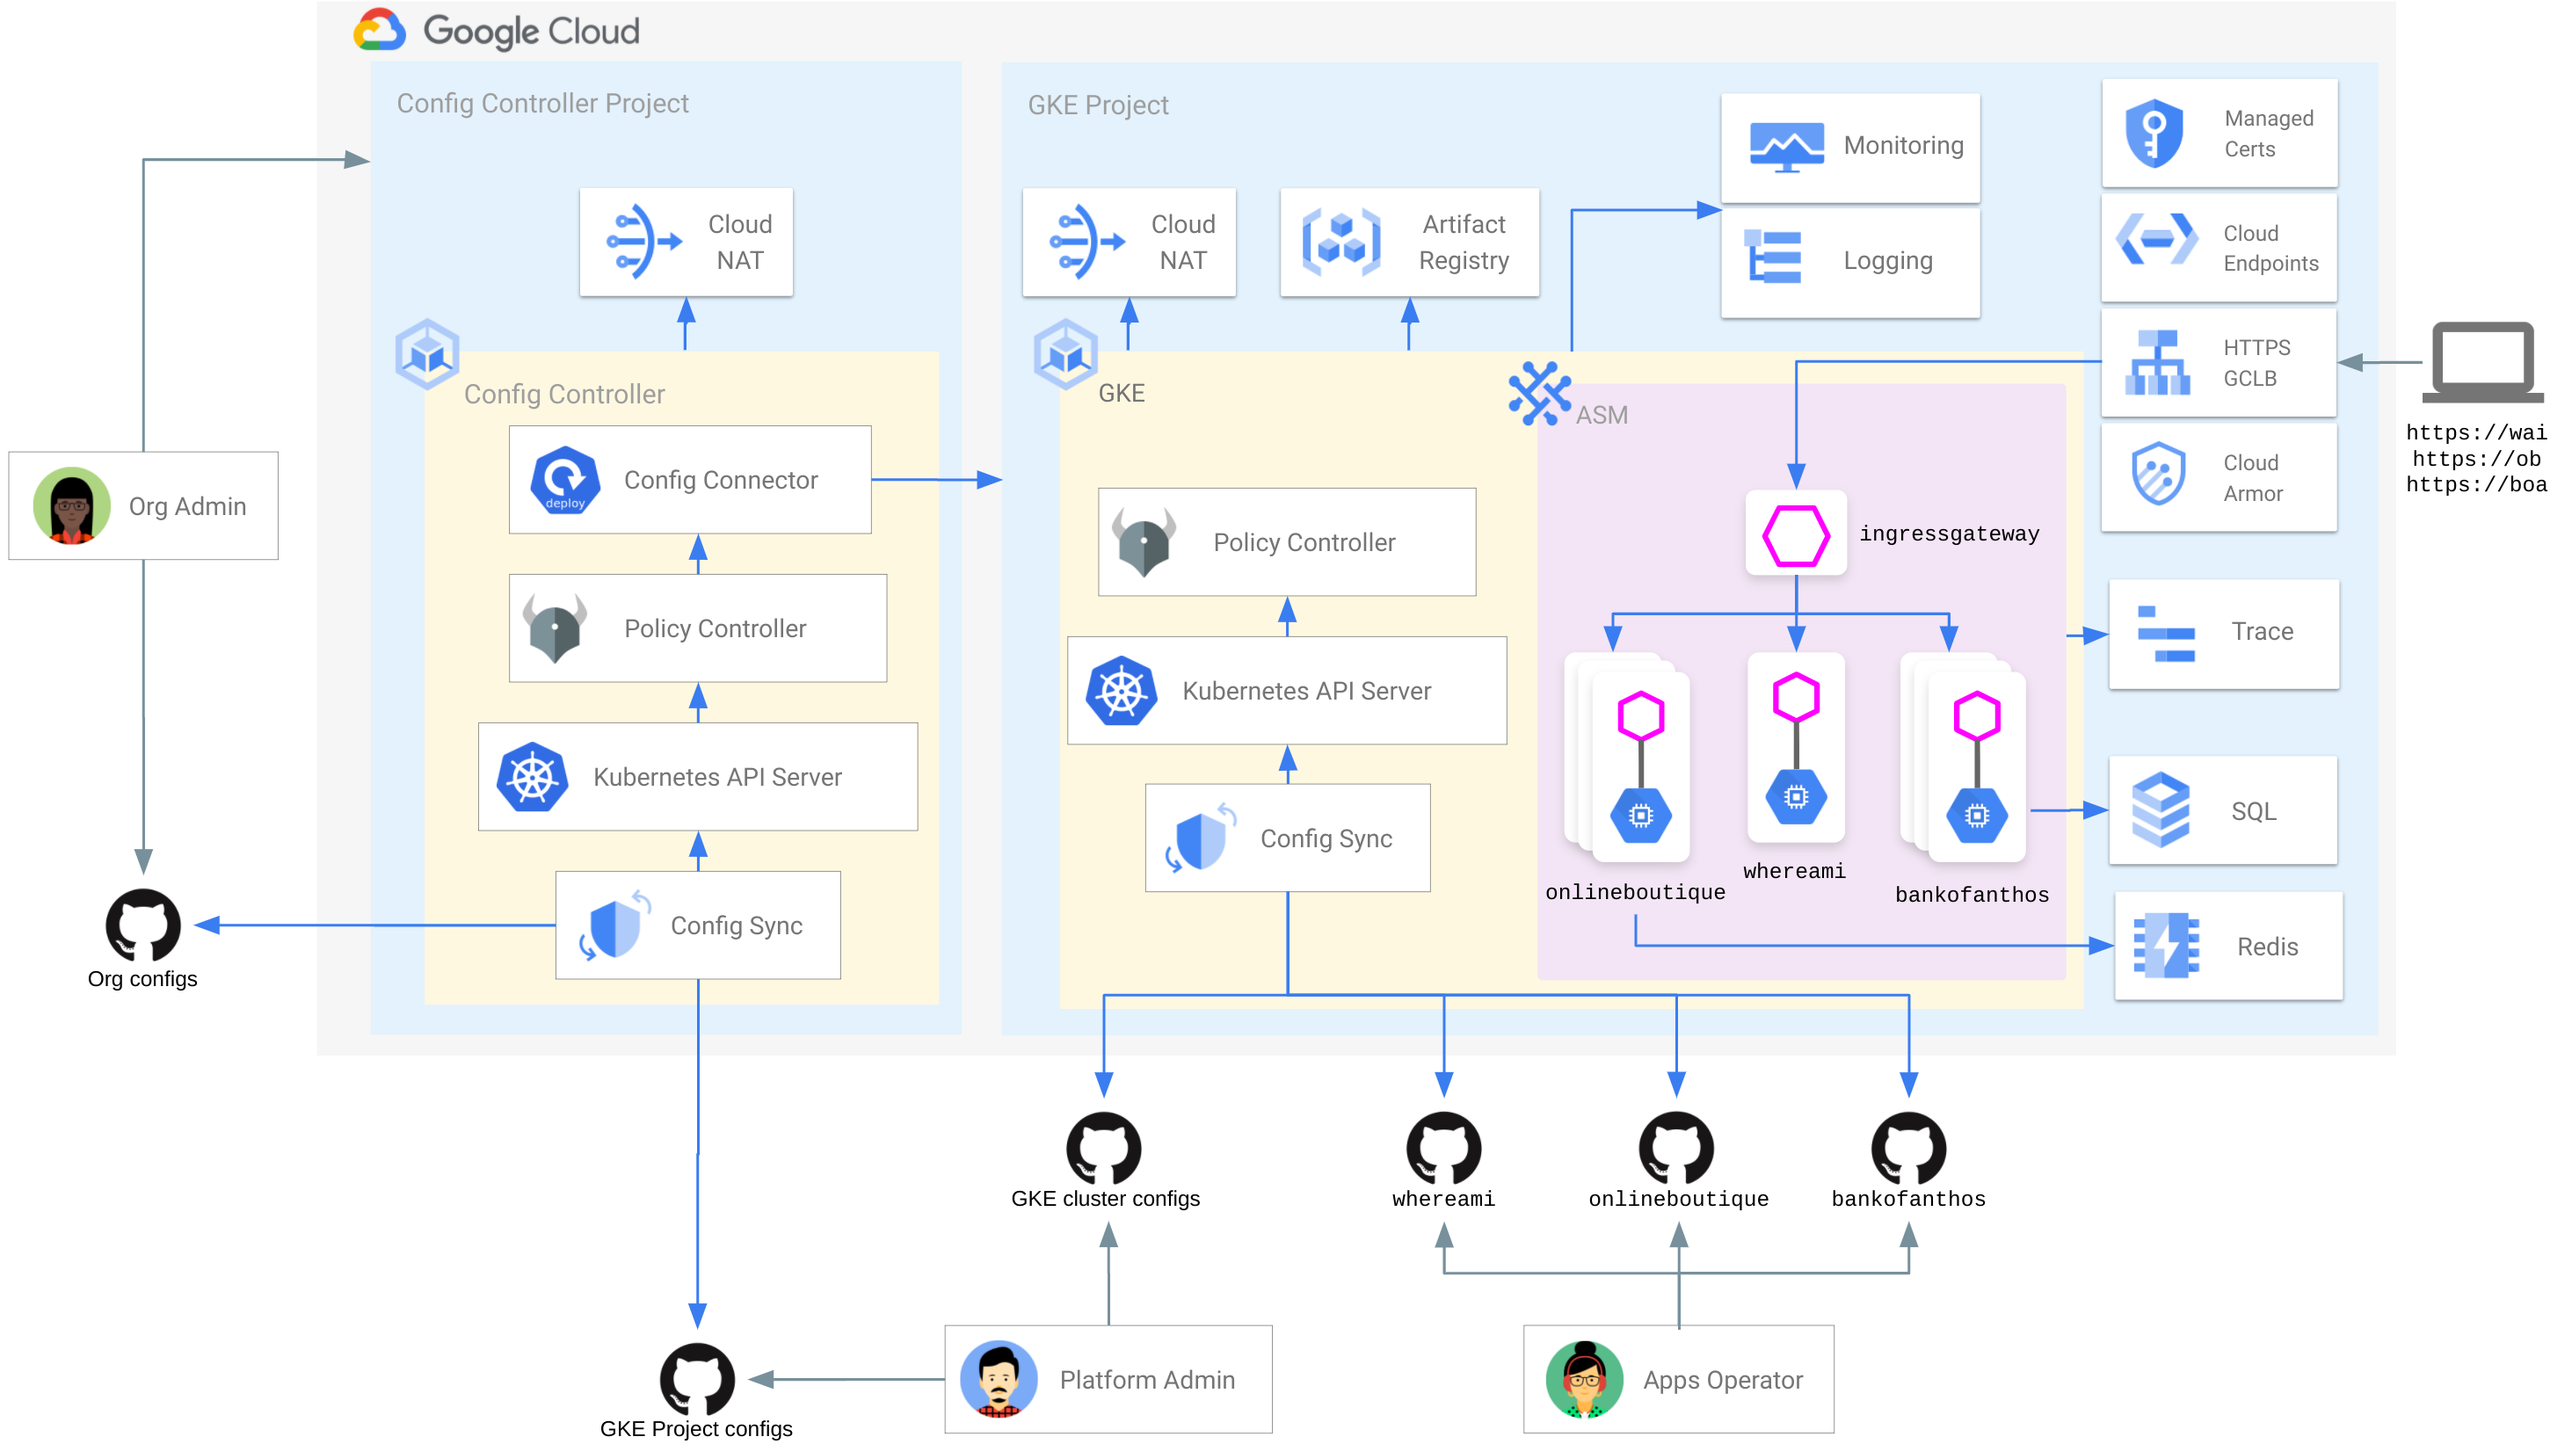
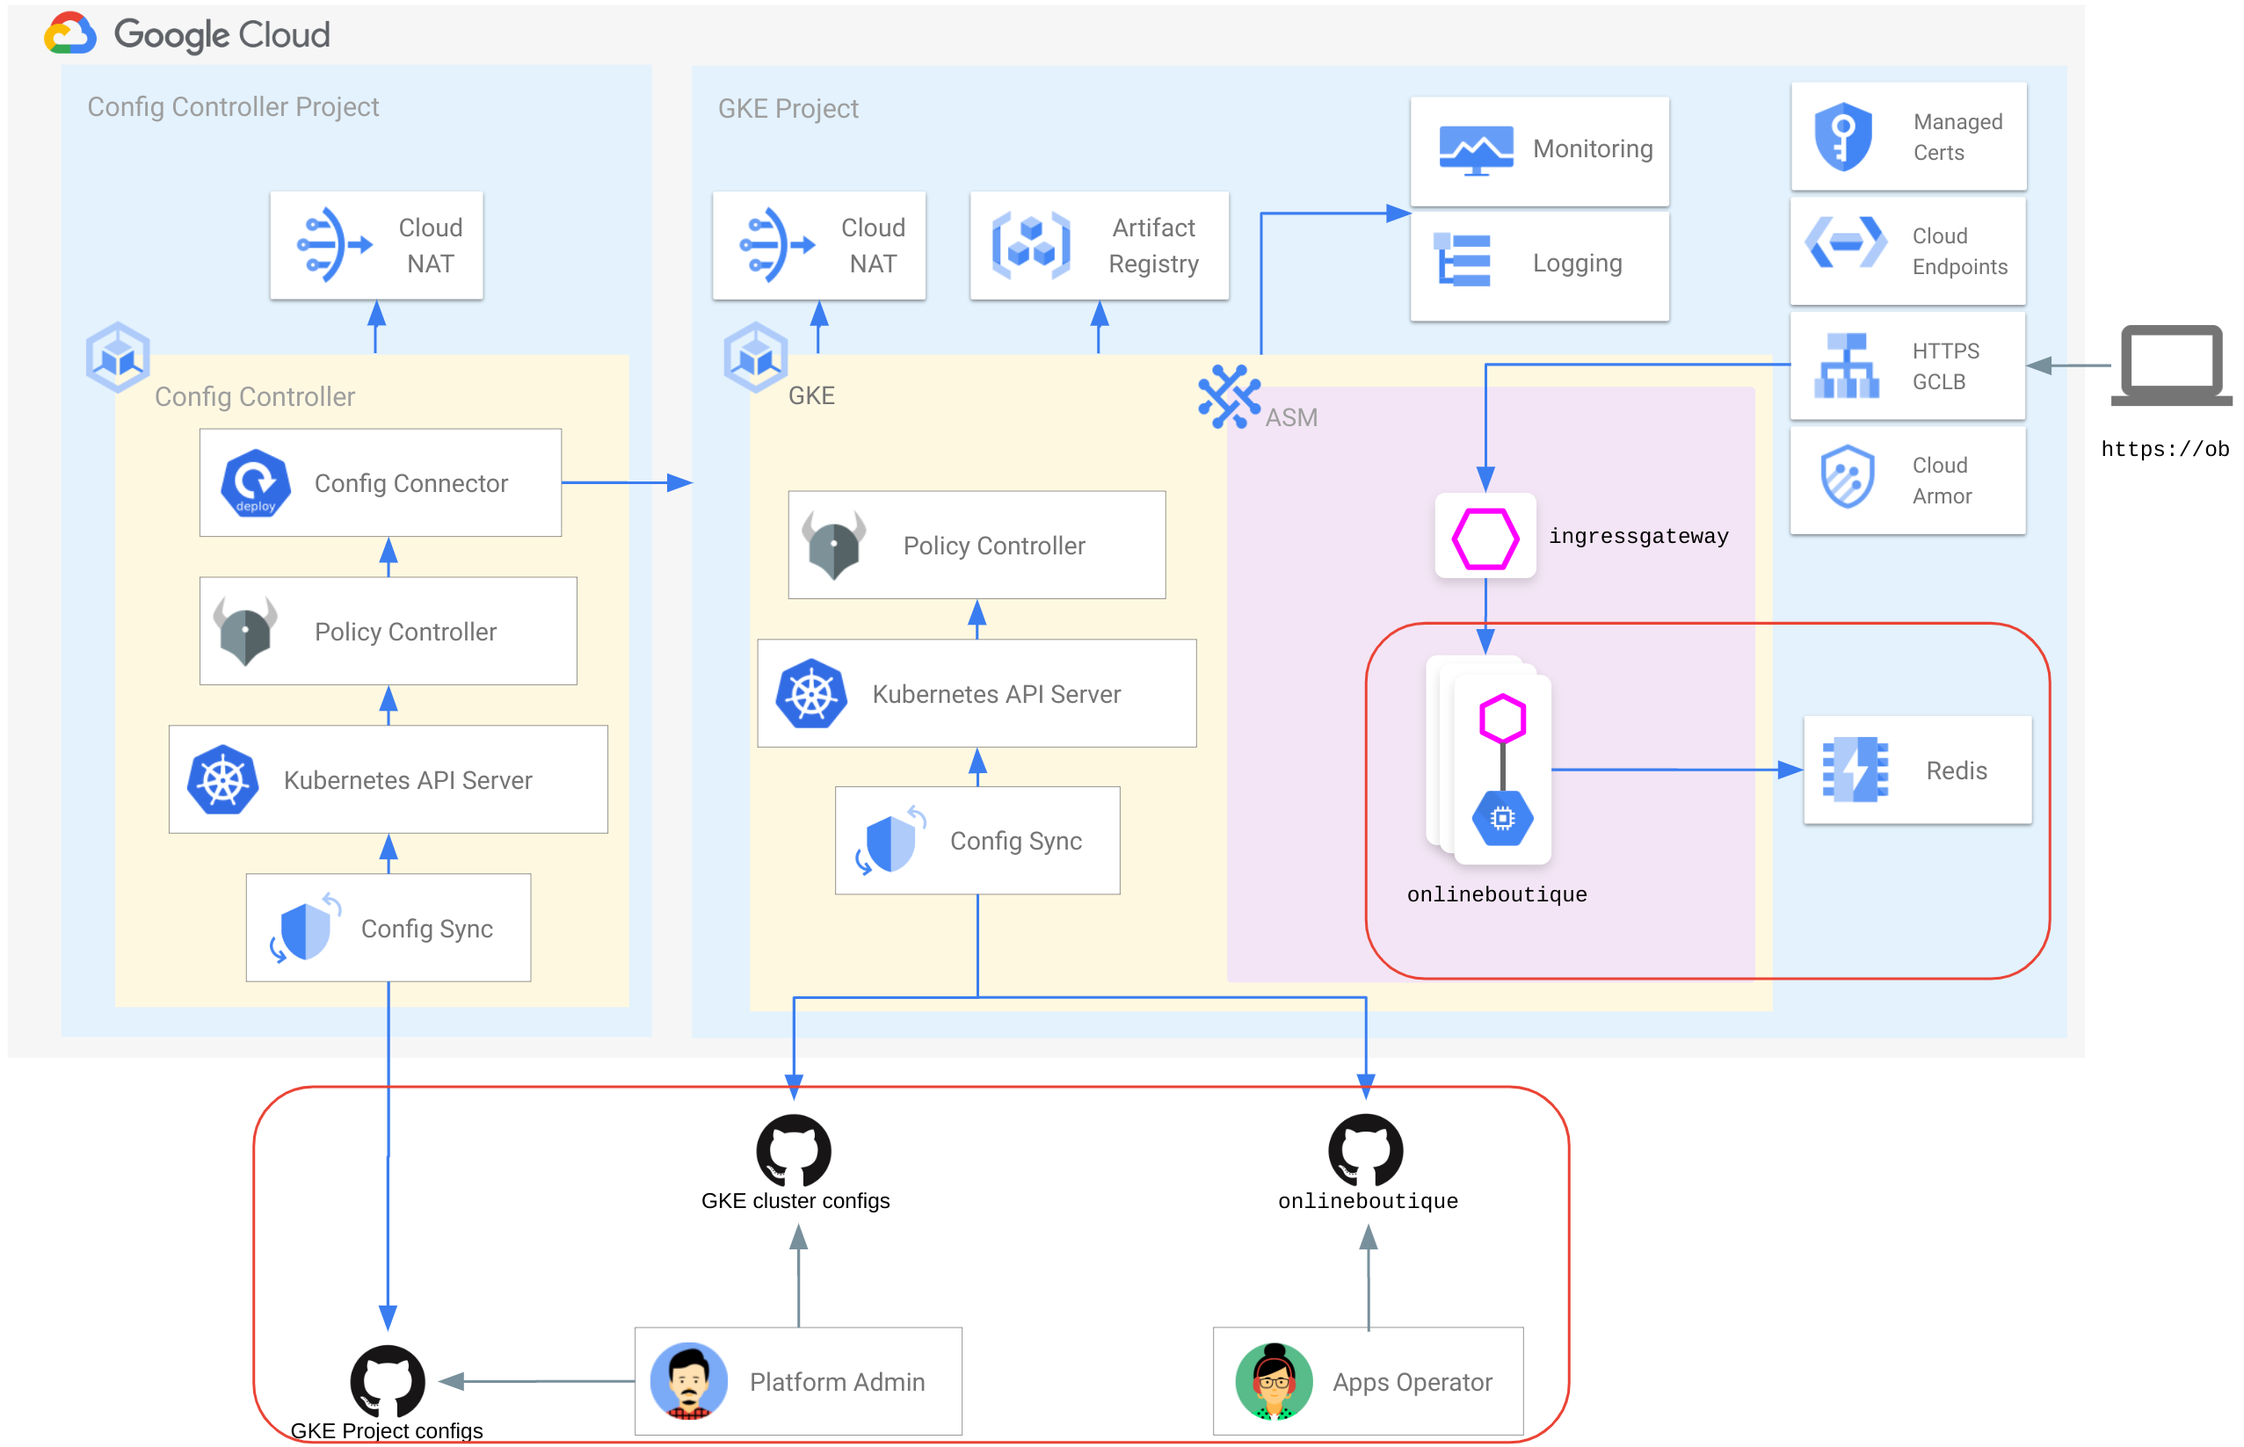
more updates for lab

diff --git a/content/overview/agenda.md b/content/overview/agenda.md
@@ -2,46 +2,10 @@
 title: "Agenda"
 weight: 2
 ---
-1. Config Controller
-    1. As Org Admin, create a Config Controller instance
-    1. As Org Admin, set up Config Controller's Git repo
-1. GKE project
-    1. As Org Admin, set up the GKE project in Config Controller
-    1. As Org Admin, set up the GKE project's Git repo in Config Controller
-1. Networking
-    1. As Org Admin, allow Networking for GKE project in Config Controller
-    1. As Platform Admin, set up Network in GKE project
-1. GKE cluster
-    1. As Org Admin, allow GKE for GKE project in Config Controller
-    1. As Platform Admin, create GKE cluster in GKE project
-    1. As Org Admin, allow GKE Hub for GKE project in Config Controller
-    1. As Platform Admin, set up GKE configs's Git repo in GKE project
-    1. As Platform Admin, set up `NetworkPolicy` logging in GKE cluster
-1. Artifact Registry
-    1. As Org Admin, allow Artifact Registry for GKE project in Config Controller
-    1. As Platform Admin, create Artifact Registry in GKE project and allow GKE cluster to pull containers
-1. Service Mesh
-    1. As Org Admin, allow ASM for GKE project in Config Controller
-    1. As Platform Admin, install ASM in GKE cluster
-    1. As Platform Admin, set up ASM configs in GKE cluster
-1. Ingress Gateway
-    1. As Platform Admin, set up the Public static IP address and DNS for the Ingress Gateway
-    1. As Org Admin, allow Cloud Armor for GKE project in Config Controller
-    1. As Platform Admin, set up Cloud Armor in GKE project
-    1. As Platform Admin, deploy the Ingress Gateway linked to Cloud Armor in GKE cluster
-    1. As Platform Admin, set up `NetworkPolicy` resources for the Ingress Gateway namespace in GKE cluster
-    1. As Platform Admin, set up `AuthorizationPolicy` resources for the Ingress Gateway namespace in GKE cluster
-1. Whereami app
-    1. As Platform Admin, set up the Whereami app's Git repo in GKE cluster
-    1. As Apps Operator, deploy the Whereami app
-    1. As Apps Operator, set up `NetworkPolicy` resources for the Whereami namespace in GKE cluster
-    1. As Apps Operator, set up `Sidecar` resources for the Whereami namespace in GKE cluster
-    1. As Apps Operator, set up `AuthorizationPolicy` resources for the Whereami namespace in GKE cluster
-1. Online Boutique apps
-    1. As Platform Admin, set up the Online Boutique apps's Git repo in GKE cluster
-    1. As Org Admin, allow Memorystore (redis) for GKE project in Config Controller
-    1. As Platform Admin, set up Memorystore (redis) in GKE project
-    1. As Apps Operator, deploy the Online Boutique apps
-    1. As Apps Operator, set up `NetworkPolicy` resources for the Online Boutique namespace in GKE cluster
-    1. As Apps Operator, set up `Sidecar` resources for the Online Boutique namespace in GKE cluster
-    1. As Apps Operator, set up `AuthorizationPolicy` resources for the Online Boutique namespace in GKE cluster
+Online Boutique apps
+1. As Platform Admin, set up the Online Boutique apps's Git repo in GKE cluster
+1. As Platform Admin, set up Memorystore (redis) in GKE project
+1. As Apps Operator, deploy the Online Boutique apps
+1. As Apps Operator, set up `NetworkPolicy` resources for the Online Boutique namespace in GKE cluster
+1. As Apps Operator, set up `Sidecar` resources for the Online Boutique namespace in GKE cluster
+1. As Apps Operator, set up `AuthorizationPolicy` resources for the Online Boutique namespace in GKE cluster

diff --git a/content/onlineboutique/set-up-dns.md b/content/onlineboutique/set-up-dns.md
@@ -6,6 +6,8 @@ description: "Duration: 5 min | Persona: Platform Admin"
 ![Platform Admin](/images/platform-admin.png)
 _{{< param description >}}_
 
+In this section, you will provision a Cloud Endpoints DNS for your Online Boutique app. With this DNS you will configure an associated `ManagedCertificate` for the `Ingress`.
+
 Initialize variables:
 ```Bash
 source ${WORK_DIR}acm-workshop-variables.sh
@@ -54,18 +56,16 @@ EOF
 
 ## Update Ingress
 
-FIXME
-
 Configure Online Boutique `ManagedCertificate` on the Ingress Gateway's `Ingress` resource:
 ```Bash
 cd ~/$GKE_CONFIGS_DIR_NAME/config-sync/$INGRESS_GATEWAY_NAMESPACE
 kpt fn eval . \
     -i set-annotations:v0.1 \
     --match-kind Ingress \
-    -- networking.gke.io/managed-certificates=whereami,onlineboutique,ob-team1,ob-team2,ob-team3
+    -- networking.gke.io/managed-certificates=ob-team1,ob-team2,ob-team3
 ```
 {{% notice note %}}
-The annotation `networking.gke.io/managed-certificates` has 5 values.
+The annotation `networking.gke.io/managed-certificates` has 3 values.
 {{% /notice %}}
 
 ## Deploy Kubernetes manifests
@@ -93,7 +93,7 @@ ob-team1.endpoints.acm-workshop-464-gke.cloud.goog
 ob-team1.endpoints.acm-workshop-464-gke.cloud.goog: PROVISIONING
 ```
 {{% notice note %}}
-Wait for the `ManagedCertificate` to be provisioned. This usually takes about 30 minutes.
+This usually takes about 30 minutes for the `ManagedCertificate` to be provisioned. You can continue with the rest of the lab while it's provisioning.
 {{% /notice %}}
 
 List the GitHub runs for the **GKE cluster configs** repository `cd ~/$GKE_CONFIGS_DIR_NAME && gh run list | grep $ONLINEBOUTIQUE_NAMESPACE`:

diff --git a/content/onlineboutique/set-up-authorization-policies.md b/content/onlineboutique/set-up-authorization-policies.md
@@ -6,6 +6,8 @@ description: "Duration: 5 min | Persona: Apps Operator"
 ![Apps Operator](/images/apps-operator.png)
 _{{< param description >}}_
 
+In this section, you will set up fine granular `AuthorizationPolicies` for you Online Boutique apps. `AuthorizationPolicies` resources add more security between the communication of your `Pods` within your Mesh.
+
 Initialize variables:
 ```Bash
 source ${WORK_DIR}acm-workshop-variables.sh

diff --git a/content/onlineboutique/set-up-network-policies.md b/content/onlineboutique/set-up-network-policies.md
@@ -6,6 +6,8 @@ description: "Duration: 5 min | Persona: Apps Operator"
 ![Apps Operator](/images/apps-operator.png)
 _{{< param description >}}_
 
+In this section, you will set up fine granular `NetworkPolicies` for you Online Boutique apps. `NetworkPolicies` resources add more security between the communication of your `Pods`.
+
 Initialize variables:
 ```Bash
 source ${WORK_DIR}acm-workshop-variables.sh

diff --git a/content/onlineboutique/set-up-sidecar.md b/content/onlineboutique/set-up-sidecar.md
@@ -6,6 +6,8 @@ description: "Duration: 5 min | Persona: Apps Operator"
 ![Apps Operator](/images/apps-operator.png)
 _{{< param description >}}_
 
+In this section, you will set up fine granular `Sidecars` for you Online Boutique apps. `Sidecars` resources allow to optimize the CPU and memory usage of your Istio sidear proxies.
+
 Initialize variables:
 ```Bash
 source ${WORK_DIR}acm-workshop-variables.sh

diff --git a/content/onlineboutique/set-up-memorystore.md b/content/onlineboutique/set-up-memorystore.md
@@ -6,6 +6,8 @@ description: "Duration: 10 min | Persona: Platform Admin"
 ![Platform Admin](/images/platform-admin.png)
 _{{< param description >}}_
 
+In this section, you will provision a Memorystore (redis) instance. This database will be used by `cartservie` later.
+
 Initialize variables:
 ```Bash
 source ${WORK_DIR}acm-workshop-variables.sh

diff --git a/content/onlineboutique/set-up-onlineboutique-git-repo.md b/content/onlineboutique/set-up-onlineboutique-git-repo.md
@@ -6,6 +6,8 @@ description: "Duration: 10 min | Persona: Platform Admin"
 ![Platform Admin](/images/platform-admin.png)
 _{{< param description >}}_
 
+In this section, you will a GitOps setup with a GitHub repository dedicated to the Kubernetes manifests for you Online Boutique apps.
+
 Initialize variables:
 ```Bash
 WORK_DIR=~/

diff --git a/content/onlineboutique/deploy-onlineboutique.md b/content/onlineboutique/deploy-onlineboutique.md
@@ -6,6 +6,8 @@ description: "Duration: 5 min | Persona: Apps Operator"
 ![Apps Operator](/images/apps-operator.png)
 _{{< param description >}}_
 
+In this section, you will deploy your Online Boutique apps using Kustomize.
+
 Initialize variables:
 ```Bash
 source ${WORK_DIR}acm-workshop-variables.sh

diff --git a/content/overview/objectives.md b/content/overview/objectives.md
@@ -10,8 +10,7 @@ At the end of this workshop, here is what you will accomplish:
 
 ## Personas
 
-Three personas are involved:
-- Org Admin
+Two personas are involved:
 - Platform Admin
 - Apps Operator
 
